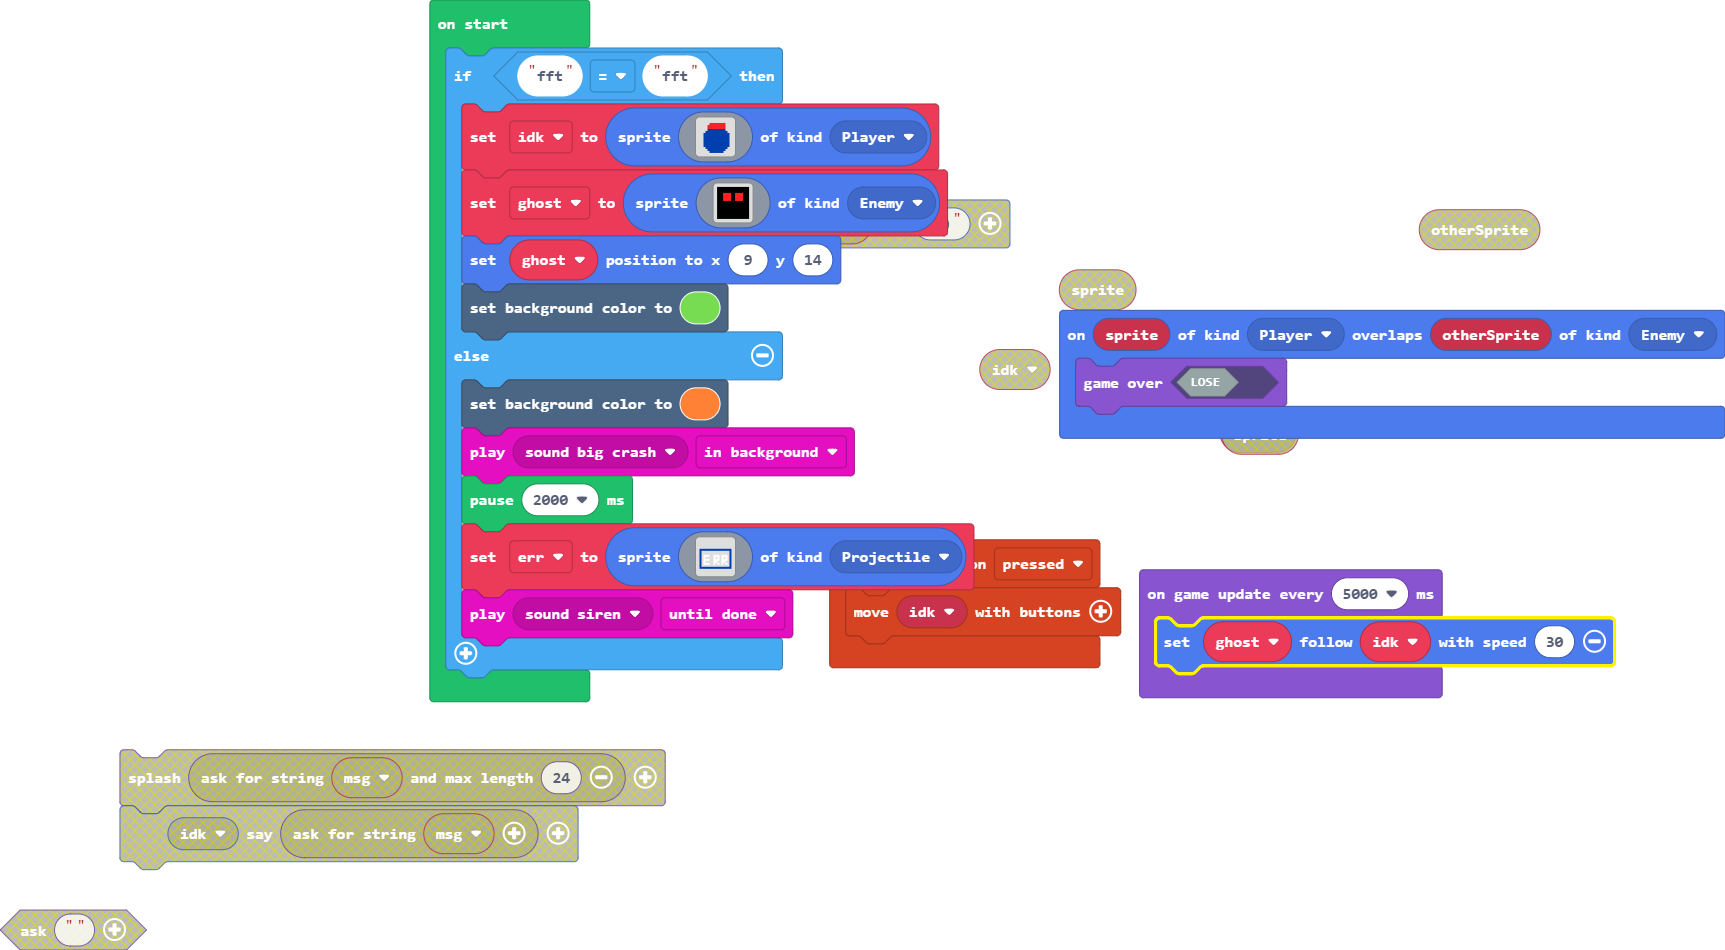
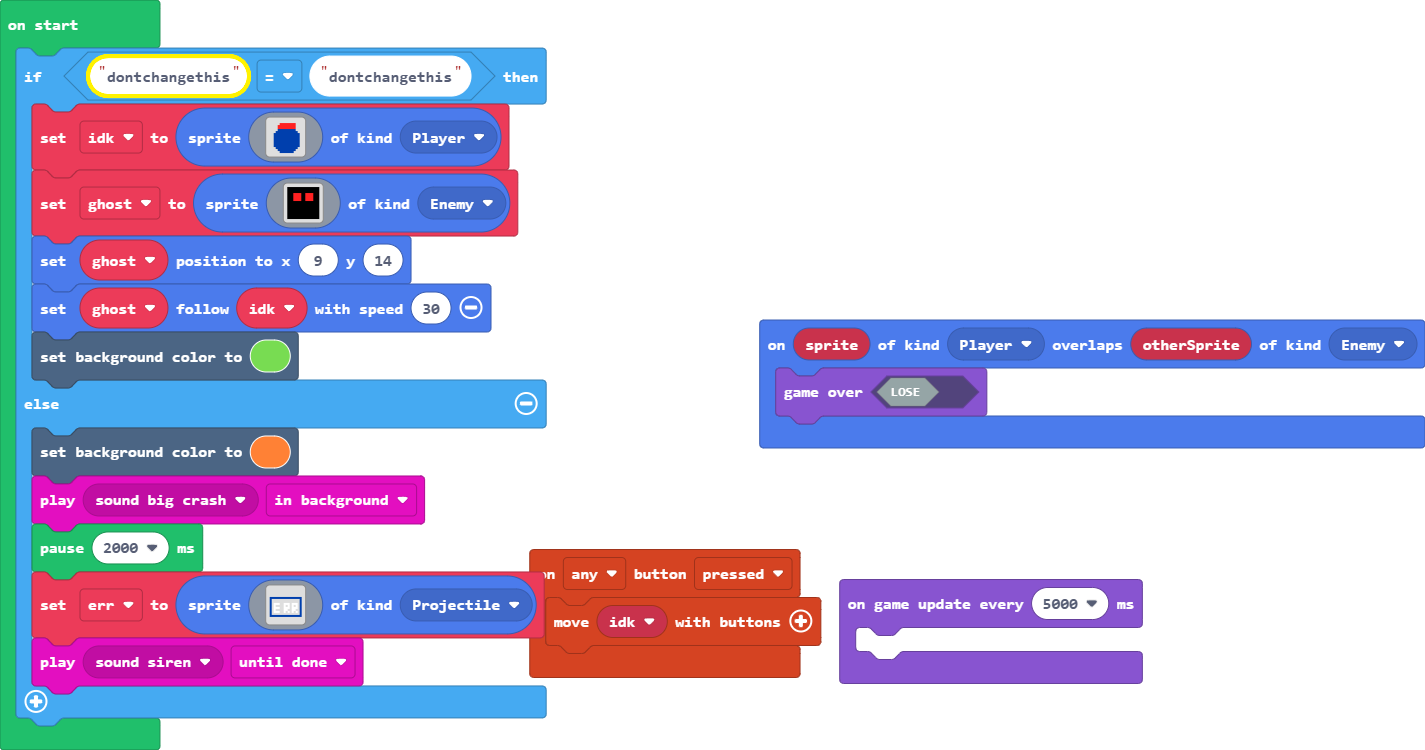
Update main.blocks, main.ts

diff --git a/main.ts b/main.ts
@@ -7,7 +7,7 @@ sprites.onOverlap(SpriteKind.Player, SpriteKind.Enemy, function (sprite, otherSp
 let err: Sprite = null
 let ghost: Sprite = null
 let idk: Sprite = null
-if ("fft" == "fft") {
+if ("dontchangethis" == "dontchangethis") {
     idk = sprites.create(img`
         . . . . . . . . . . . . . . . . 
         . . . . . 2 2 2 2 2 2 2 2 . . . 
@@ -45,6 +45,7 @@ if ("fft" == "fft") {
         f f f f f f f f f f f f f f f f 
         `, SpriteKind.Enemy)
     ghost.setPosition(9, 14)
+    ghost.follow(idk, 30)
     scene.setBackgroundColor(7)
 } else {
     scene.setBackgroundColor(4)
@@ -71,5 +72,5 @@ if ("fft" == "fft") {
     music.play(music.melodyPlayable(music.siren), music.PlaybackMode.UntilDone)
 }
 game.onUpdateInterval(5000, function () {
-    ghost.follow(idk, 30)
+	
 })
